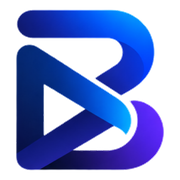
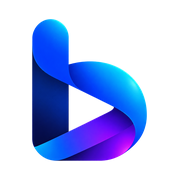
feat(brand): switch to the new Bwipo b mark and wordmark
Use the preferred 3D b on loading screens and PWA icons, and the white wipo wordmark on login and the landing header.

diff --git a/src/components/crm/app-loading.tsx b/src/components/crm/app-loading.tsx
@@ -43,7 +43,7 @@ export type AppLoadingProps = {
 
 function BrandMark() {
   return (
-    <span className="relative inline-flex size-14 items-center justify-center">
+    <span className="relative inline-flex size-16 items-center justify-center">
       <span
         aria-hidden
         className="app-loading-halo absolute inset-[-10px] rounded-[var(--radius-2xl)]"
@@ -54,10 +54,10 @@ function BrandMark() {
       />
       <span
         aria-hidden
-        className="app-loading-mark relative flex size-14 items-center justify-center"
+        className="app-loading-mark relative flex size-16 items-center justify-center"
       >
         {/* eslint-disable-next-line @next/next/no-img-element */}
-        <img src="/logo-bwipo.png" alt="" className="size-14 object-contain" />
+        <img src="/logo-bwipo.png" alt="" className="size-16 object-contain" />
       </span>
     </span>
   );
